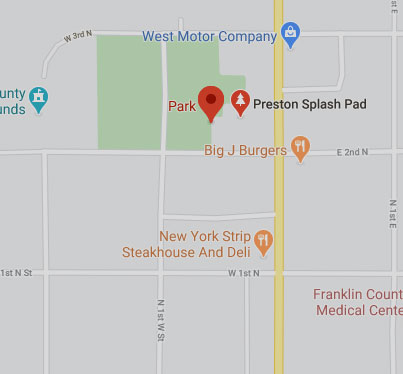
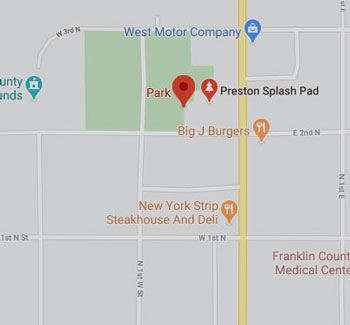
commit

diff --git a/lesson5/css/small.css b/lesson5/css/small.css
@@ -166,9 +166,12 @@ body { max-width: 60em;
       font-size: small;
     }
 
-    
+    #map
+    {
+      margin:0px;
+    }
     #map img{
-      width: 80%;
+      width: 100%;
     }
 
     #address{

diff --git a/lesson5/preston-5.html b/lesson5/preston-5.html
@@ -106,7 +106,6 @@
 
                  <div id="map">
                  <img src="images/map.jpg" alt="Park Map">
-  
                  </div>
 
             </section>
